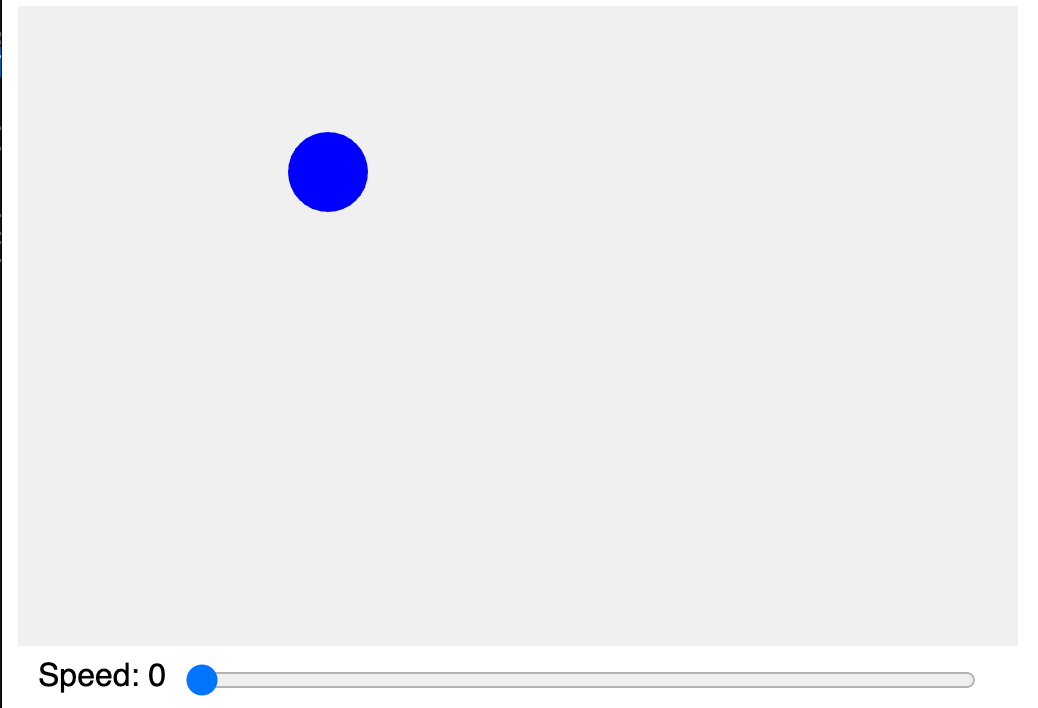
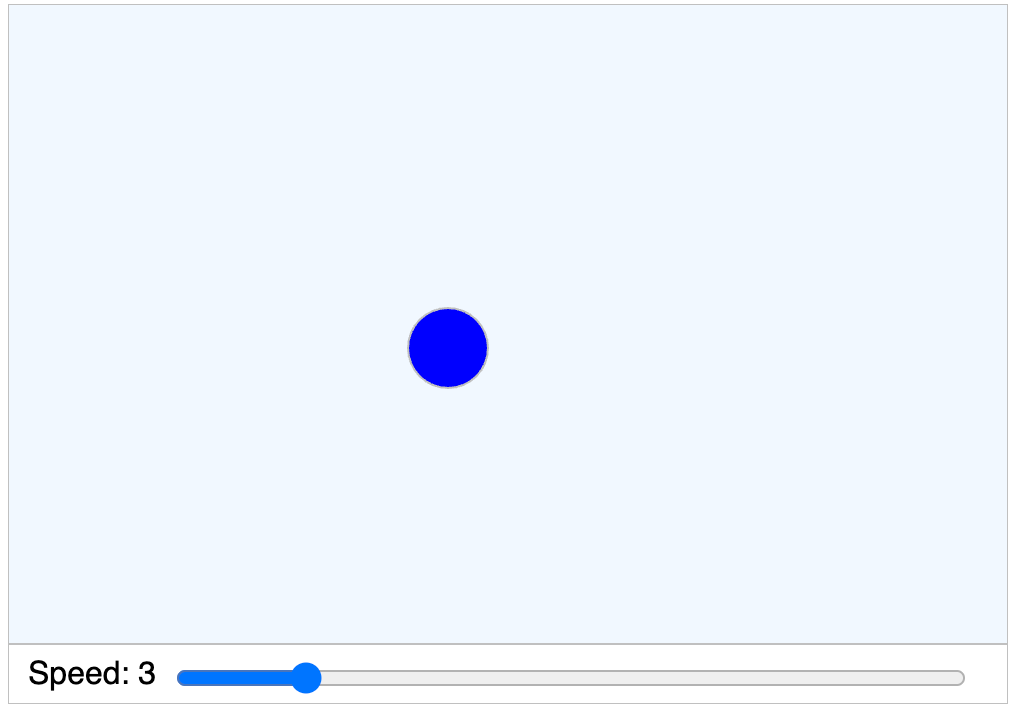
updating content

diff --git a/docs/sims/bouncing-ball/bouncing-ball-v2.js b/docs/sims/bouncing-ball/bouncing-ball-v2.js
@@ -3,7 +3,7 @@
 
 let width = 500;
 let height = 350;
-let drHeight = 300; // region for drawing
+let drawHeight = 300; // region for drawing
 r = 20; // radius of the ball
 
 // initial position
@@ -30,11 +30,14 @@ function setup() {
 }
 
 function draw() {
-  fill(240);
-  noStroke();
-  rect(0, 0, width, drHeight+1); // fill drawing area with light gray
-  fill('white');
-  rect(0, drHeight, width, height-drHeight); // fill control with white
+ // fill drawing area with very light blue
+ fill('aliceblue');
+ stroke('silver');
+ strokeWeight(1);
+ rect(0, 0, width, drawHeight);
+ // fill control with white
+ fill('white');
+ rect(0, drawHeight, width, height-drawHeight); 
   
   // get the new speed from the UI
   speed = speedSlider.value();
@@ -56,7 +59,7 @@ function draw() {
   if ((x > width-r) || (x < r)) {
     dx = dx * -1; // change direction
   }
-  if ((y > drHeight - r) || (y < r)) {
+  if ((y > drawHeight - r) || (y < r)) {
     dy = dy * -1;
   }
 
@@ -64,6 +67,6 @@ function draw() {
   circle(x, y, r*2);
   fill('black');
   strokeWeight(0);
-  text('Speed: ' + speed, 10, height-30)
-  text('Ball Size: ' + r, 10, height-10)
+  text('Speed: ' + speed, 10, drawHeight+20)
+  text('Ball Size: ' + r, 10, drawHeight+40)
 }

diff --git a/docs/sims/bouncing-ball/bouncing-ball.js b/docs/sims/bouncing-ball/bouncing-ball.js
@@ -27,12 +27,14 @@ function setup() {
 }
 
 function draw() {
-  fill(240);
-  noStroke();
-  rect(0, 0, width, drawHeight+1); // fill drawing area with light gray
+  // fill drawing area with very light blue
+  fill('aliceblue');
+  stroke('silver');
+  strokeWeight(1);
+  rect(0, 0, width, drawHeight);
+  // fill control with white
   fill('white');
-  rect(0, drawHeight, width, height-drawHeight); // fill control with white
-  
+  rect(0, drawHeight, width, height-drawHeight); 
   // get the new speed from the UI
   speed = speedSlider.value();
 

diff --git a/docs/sims/bouncing-ball/index.md b/docs/sims/bouncing-ball/index.md
@@ -4,7 +4,7 @@
 Note that <figure> and <figcaption> don't seem to work in this file.
 -->
 <figure markdown>
-![Bouncing Ball](./bouncing-ball-v2.png){ width="400" }
+![Bouncing Ball](./bouncing-ball.png){ width="400" }
    <figcaption>Bouncing Ball</figcaption>
 </figure>
 
